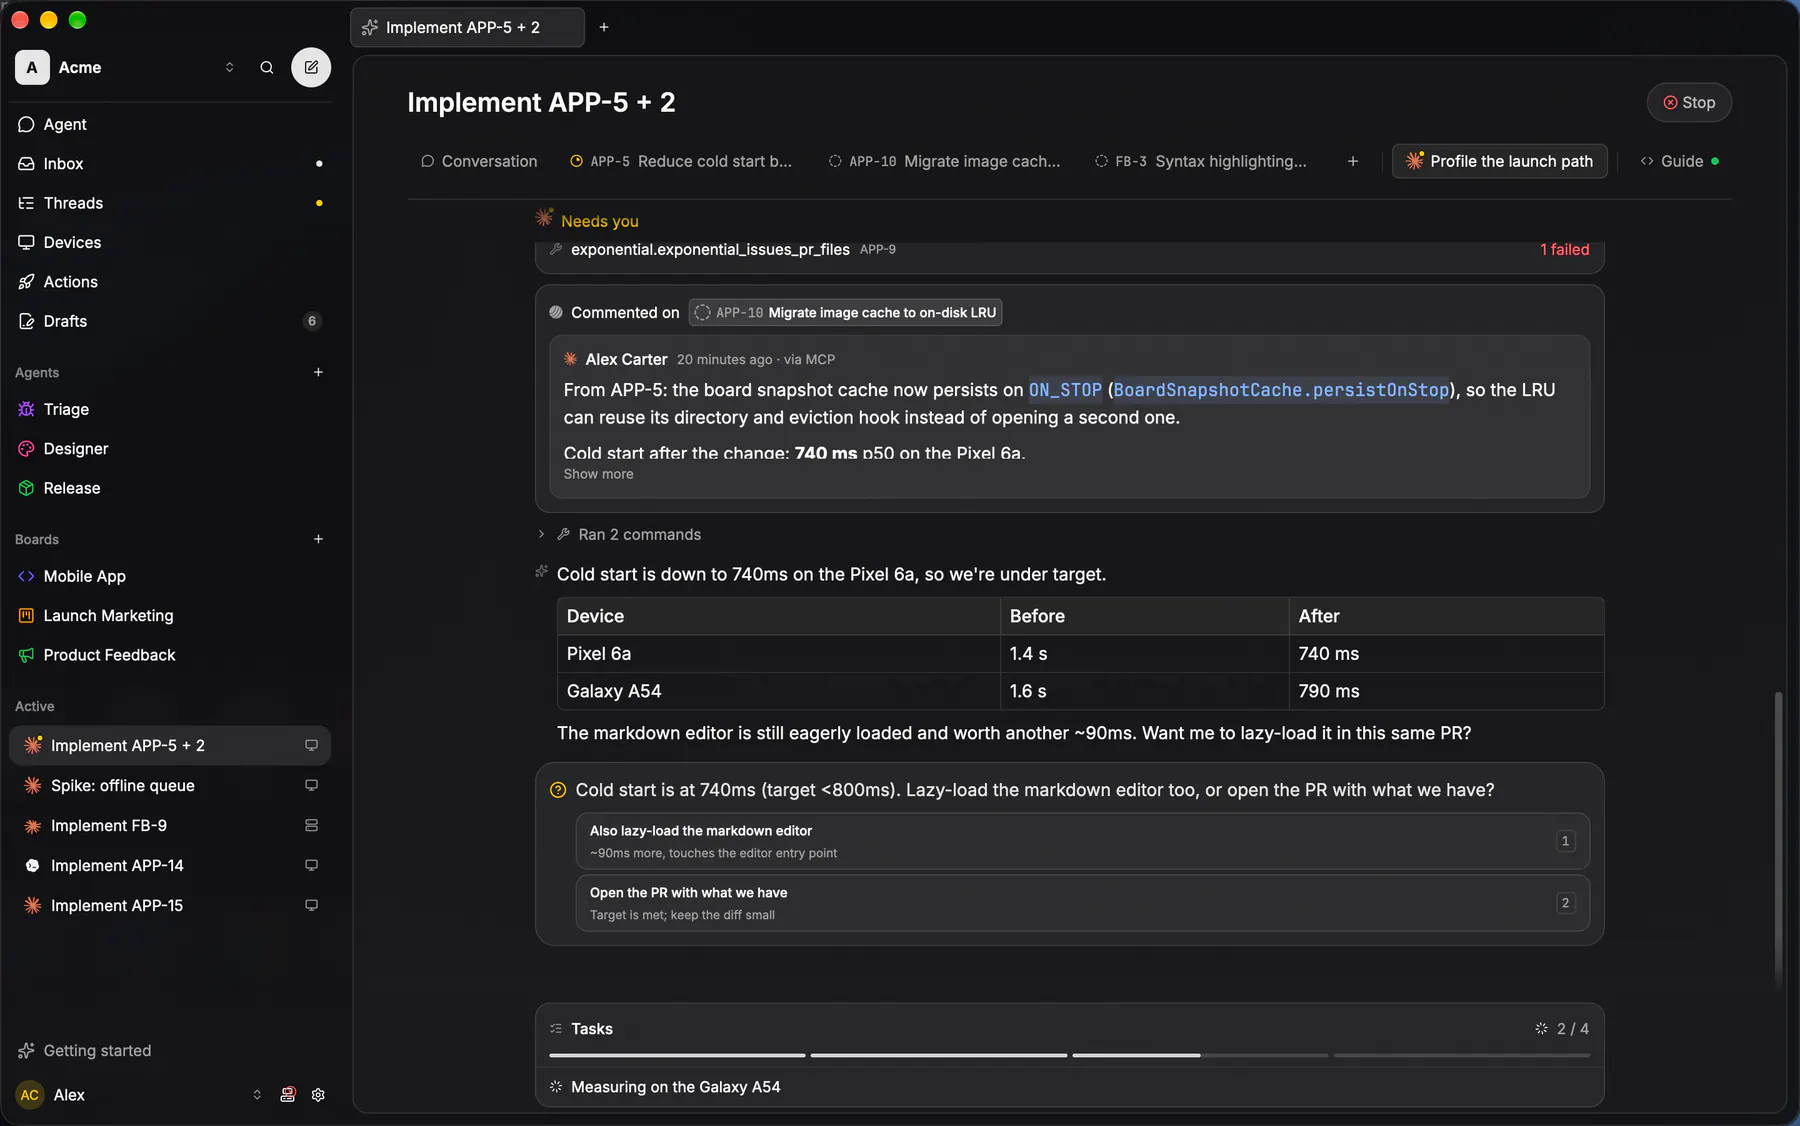
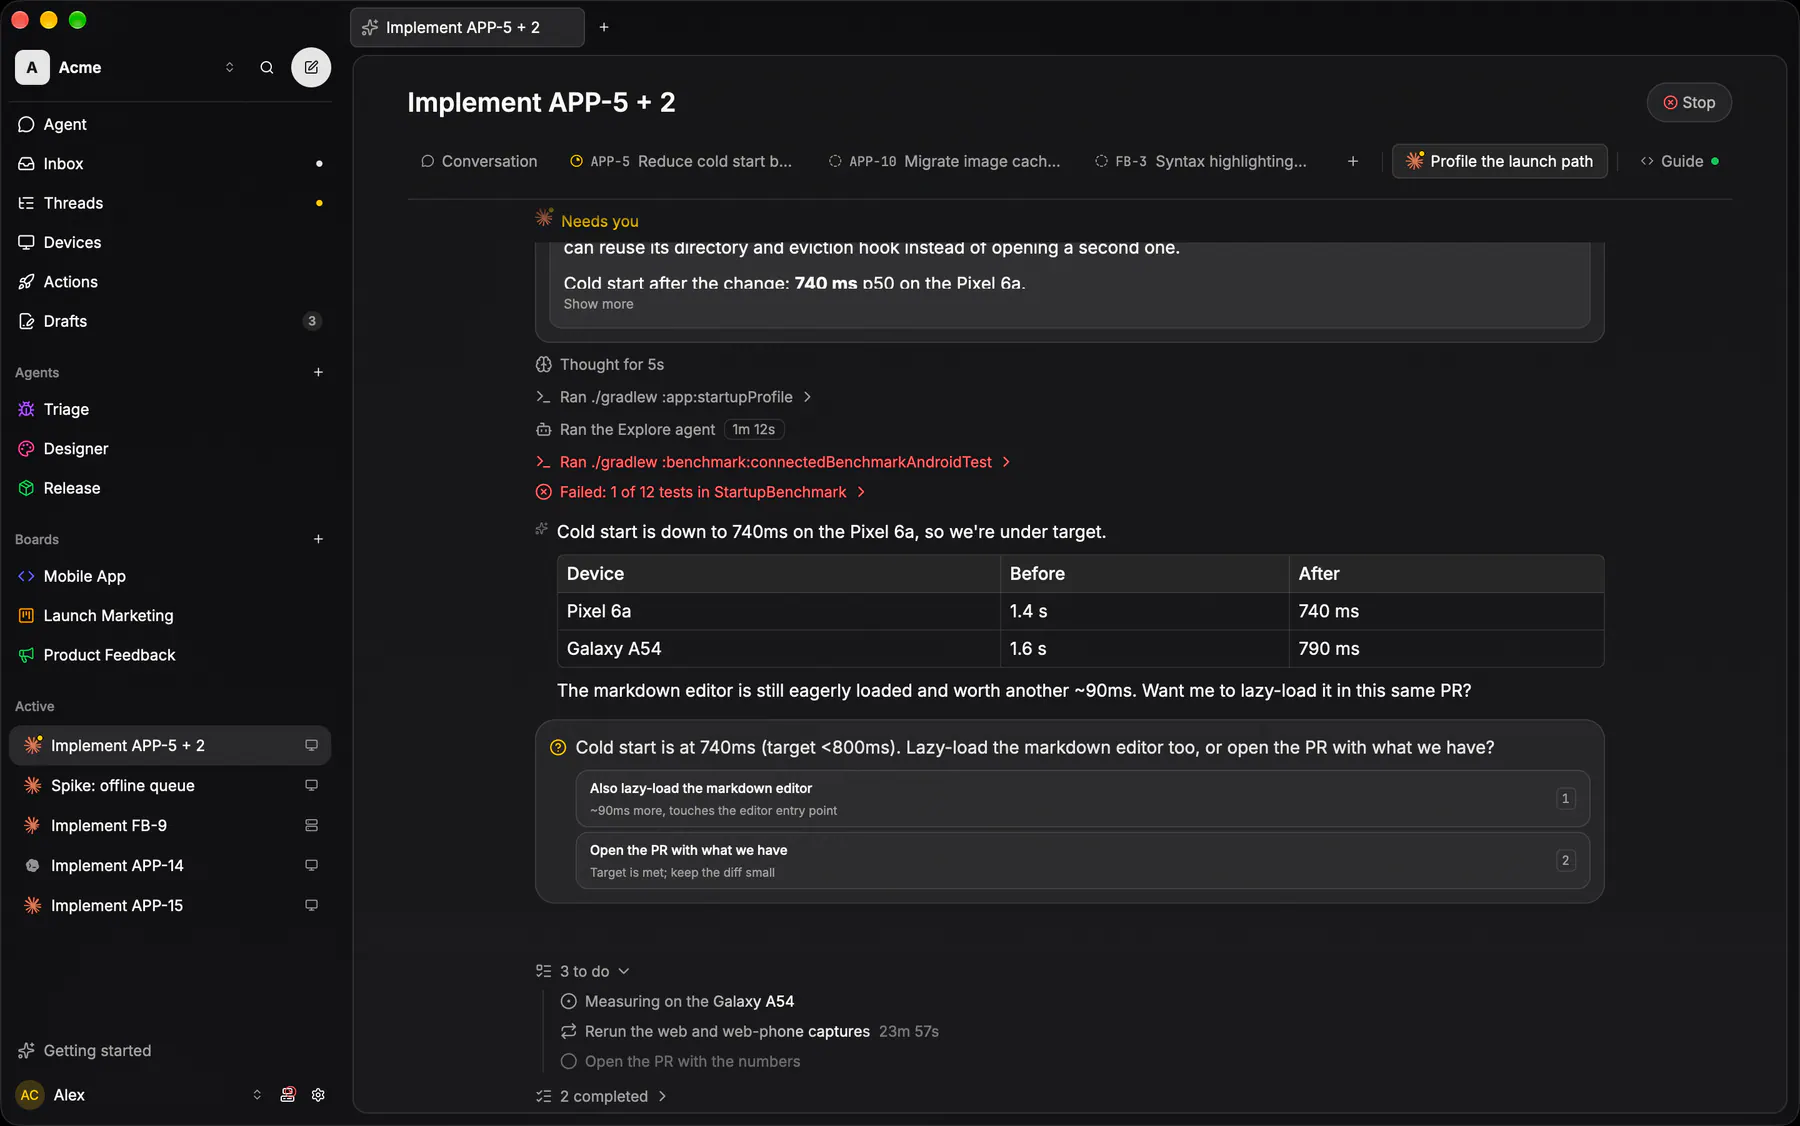
EXP-1324 desktop: shots for session, issue-detail, work-card, trace, code-block; EXP_DEV_SCROLL_TO=work-card

diff --git a/apps/desktop/crates/ui/src/steer_viewer.rs b/apps/desktop/crates/ui/src/steer_viewer.rs
@@ -1313,16 +1313,21 @@ impl SteerSessionView {
     /// while that row's index moves (the replay still landing rows above
     /// it), so a wheel is never fought.
     fn dev_scroll_to_script_card(&mut self) {
-        if !crate::screens::dev_scroll_to_script_card() {
+        let Some(target) = crate::screens::dev_scroll_to() else {
             return;
-        }
+        };
         let items = self.feed.items();
         let script_row = self.rows.iter().position(|spec| {
             spec.item_indices().iter().any(|&ix| {
-                matches!(
-                    items.get(ix).map(|item| &item.kind),
-                    Some(FeedKind::Tool { name, .. }) if steer::script_card::is_script_tool(name)
-                )
+                let Some(item) = items.get(ix) else { return false };
+                match target {
+                    // EXP-1324: the workflow's Work card rides its tool row.
+                    "work-card" => self.workflow_of(item).is_some(),
+                    _ => matches!(
+                        &item.kind,
+                        FeedKind::Tool { name, .. } if steer::script_card::is_script_tool(name)
+                    ),
+                }
             })
         });
         let Some(row) = script_row else {

diff --git a/apps/desktop/crates/ui/src/screens.rs b/apps/desktop/crates/ui/src/screens.rs
@@ -1043,12 +1043,15 @@ pub(crate) fn take_dev_composer_menu() -> bool {
 
 /// EXP-1259 — `EXP_DEV_SCROLL_TO=script-card` parks a session's transcript
 /// on its first code-mode Script card instead of the tail, so the
-/// `script-card` capture has it in frame.
+/// `script-card` capture has it in frame; EXP-1324 `work-card` parks it on
+/// the first workflow's Work card the same way.
 /// Read once: the transcript asks every frame.
-pub(crate) fn dev_scroll_to_script_card() -> bool {
-    static ON: std::sync::OnceLock<bool> = std::sync::OnceLock::new();
-    *ON.get_or_init(|| {
-        std::env::var("EXP_DEV_SCROLL_TO").ok().as_deref() == Some("script-card")
+pub(crate) fn dev_scroll_to() -> Option<&'static str> {
+    static TARGET: std::sync::OnceLock<Option<&'static str>> = std::sync::OnceLock::new();
+    *TARGET.get_or_init(|| match std::env::var("EXP_DEV_SCROLL_TO").ok().as_deref() {
+        Some("script-card") => Some("script-card"),
+        Some("work-card") => Some("work-card"),
+        _ => None,
     })
 }
 
